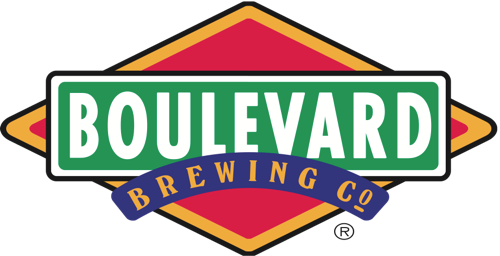
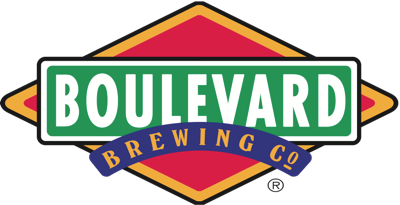
Adding Boulevard as a sponsor

diff --git a/source/stylesheets/site.css.scss b/source/stylesheets/site.css.scss
@@ -494,6 +494,11 @@ header {
 					margin-top: 35%;
 					background-image: url('/img/sponsors/boveri.png');
 				}
+				&.boulevard {
+					width: 100%;
+					height: 60px;
+					background-image: url('/img/sponsors/boulevard.png');
+				}
 				&.cremalab {
 					width: 120%;
 					height: 40px;
